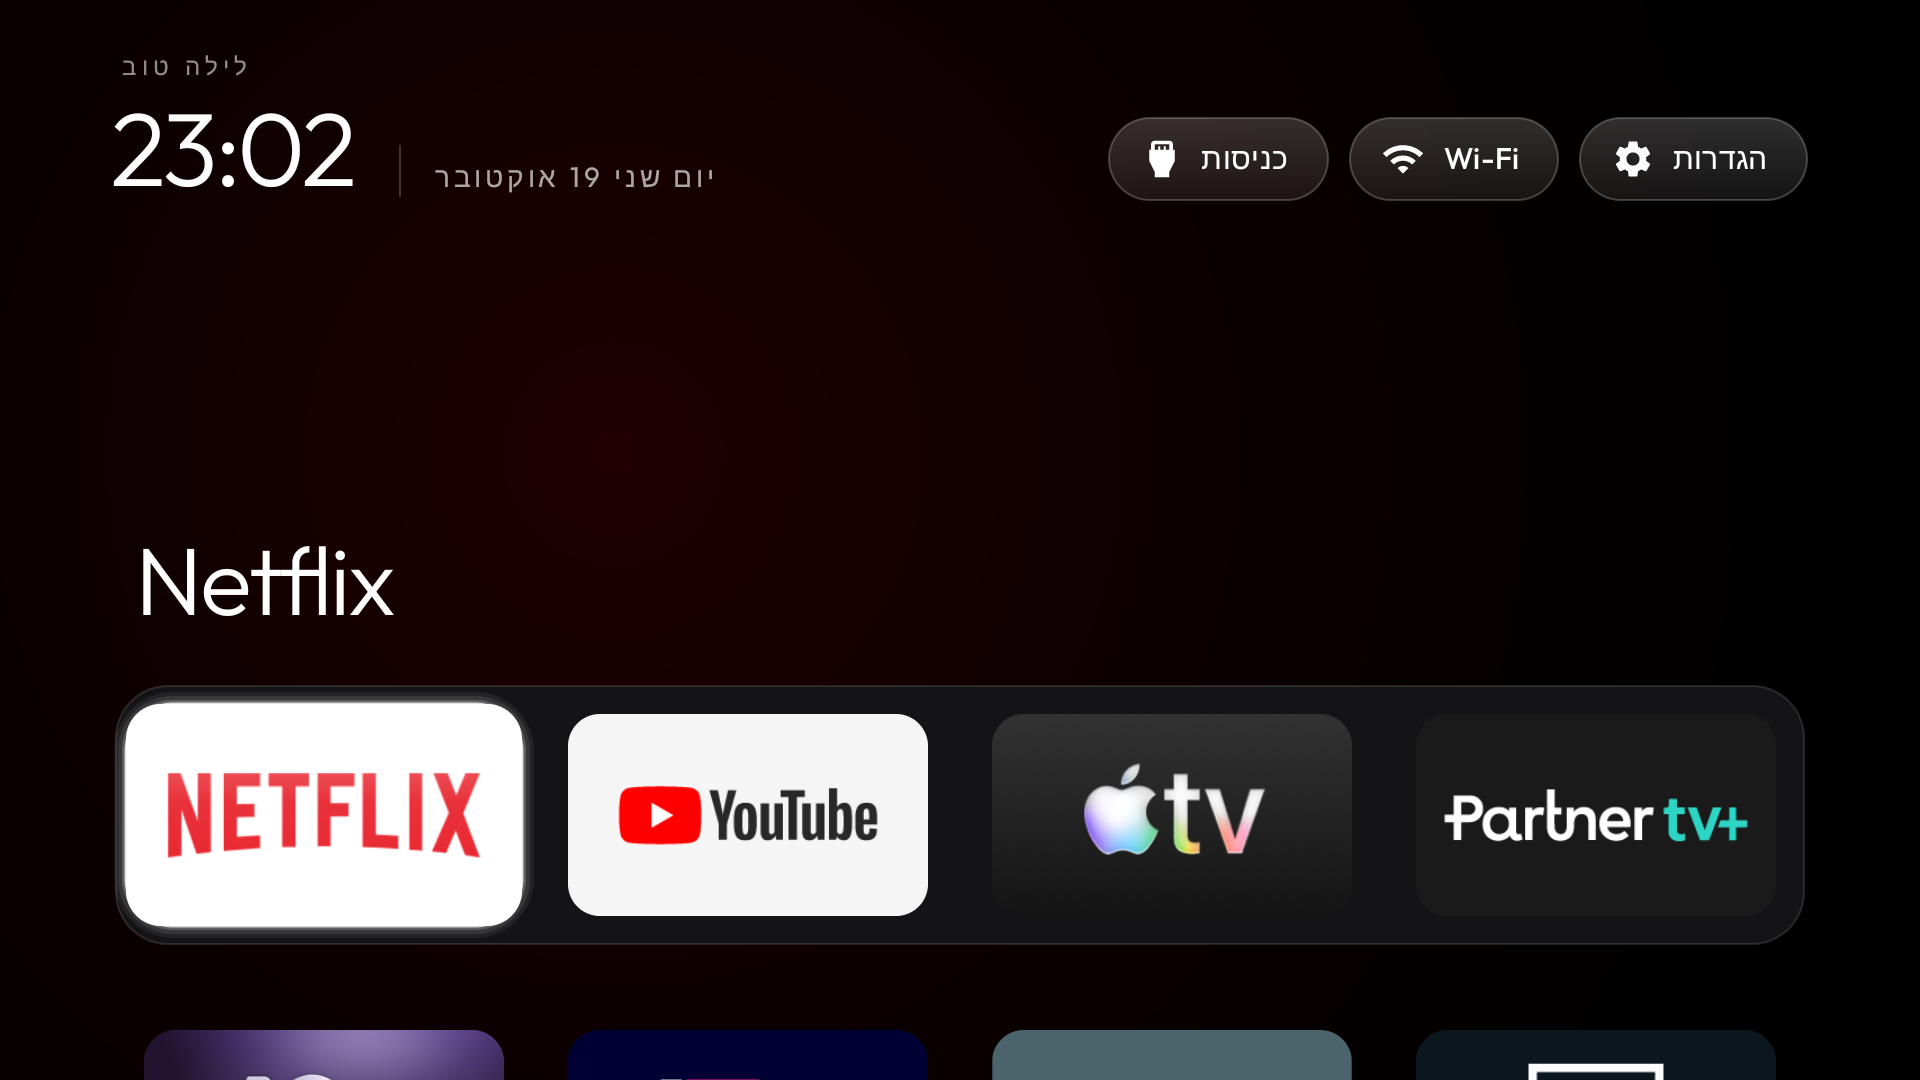
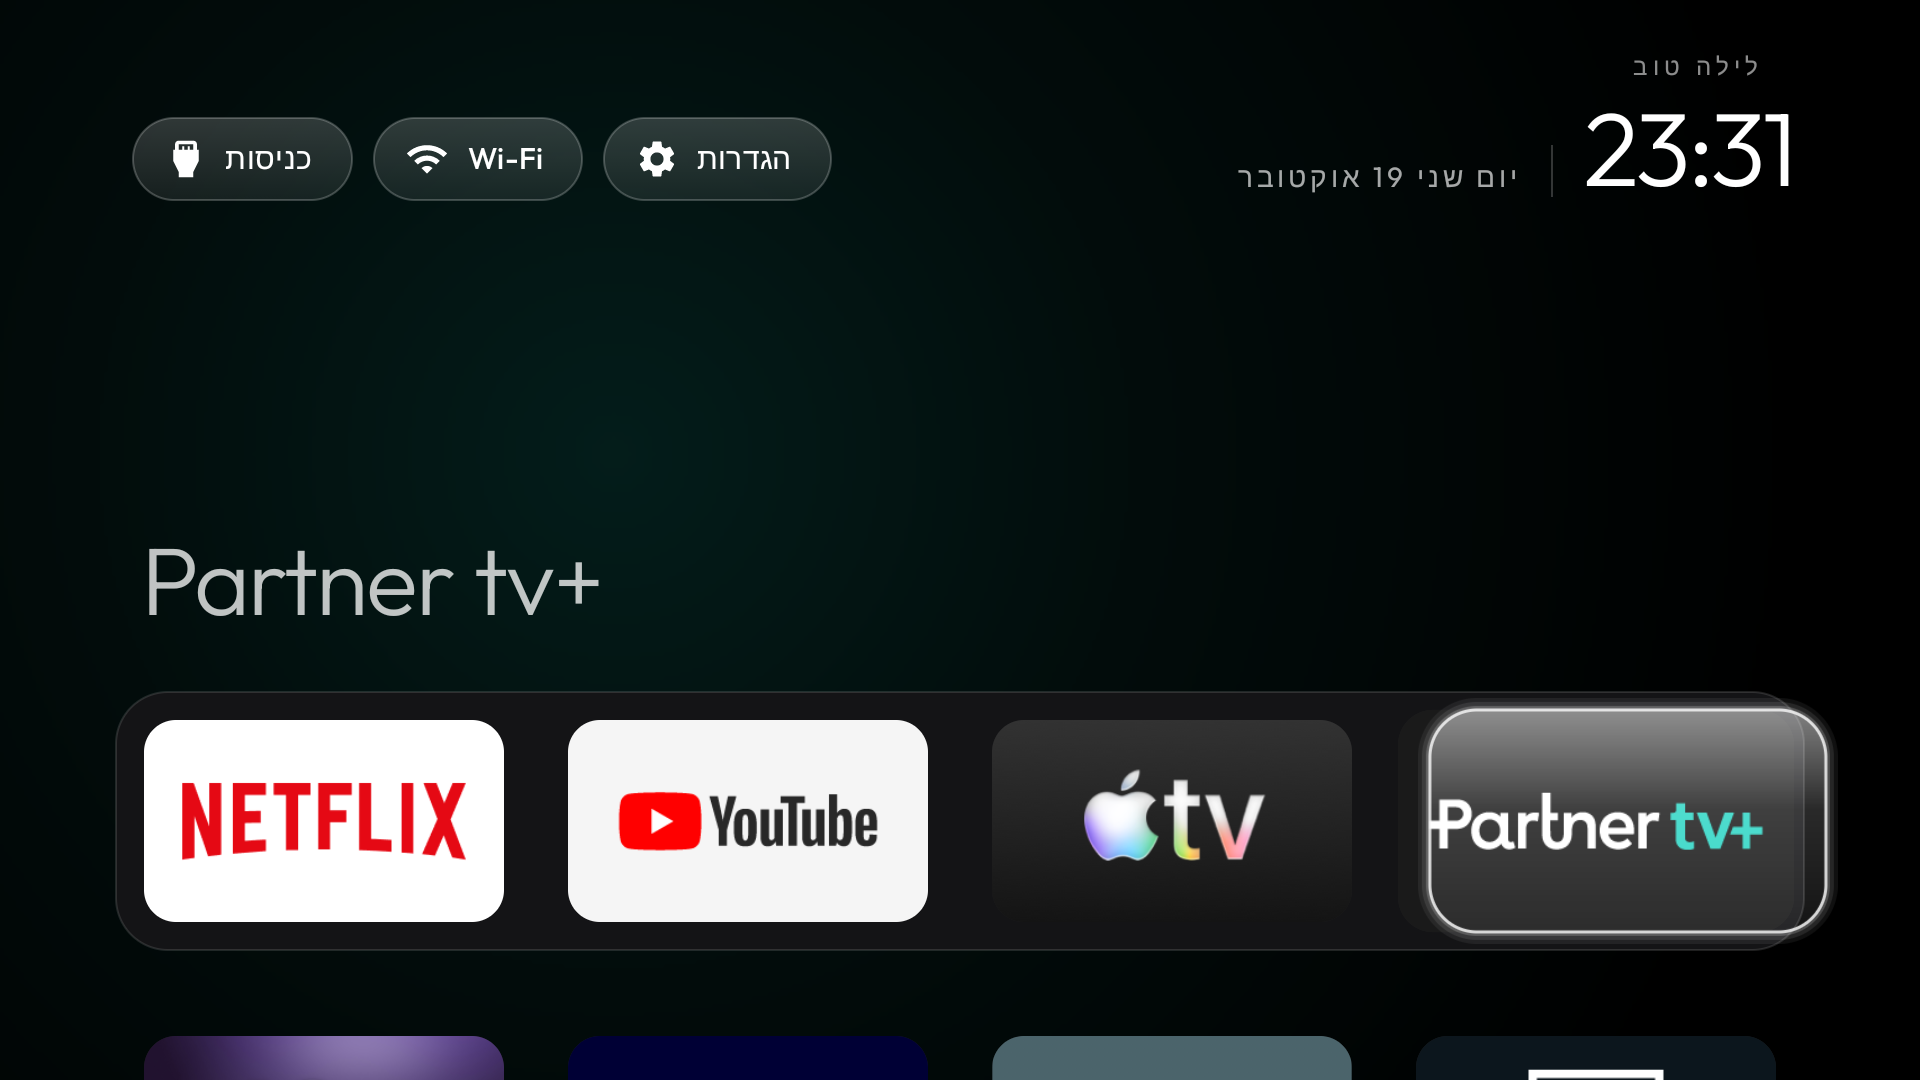
Limit the customized header layout to Hebrew

diff --git a/README.md b/README.md
@@ -212,6 +212,7 @@ the install script finds `~/Android/Sdk` and the `java` on your PATH.
 - **Configure** in [`config.xml`](launcher/app/src/main/res/values/config.xml): dock order, hidden apps, the Live TV package, columns (tiles shrink from 5 up), rows under the dock, an optional VPN app for the network pill, and `reduced_motion` for TVs whose GPU cannot keep up.
 - **Themes** set the same keys plus a background colour and a wallpaper from a `config.json` pushed to the TV, no rebuild. Three ship in [`themes/`](themes/), documented there.
 - **Language** follows the TV: English, German, Spanish, Catalan, French, Russian, Serbian (Latin), Polish, Arabic, Hebrew, Simplified Chinese, Thai, Turkish. Android 13+ can set it for the launcher alone: `tools/tv.py 'cmd locale set-app-locales com.gathin.tvhome --locales he'`.
+  Hebrew places the menu buttons on the left and the date and clock on the right, with the greeting above the clock; other languages keep the original header.
   Russian includes the module-card approval and management screens and the VPN-off badge.
 - **Module cards** let any TV app declare its own tile (label, caption, glow). The launcher asks you once per app, Keep hidden by default, and remembers the answer for that app's signing key and card name. Hold OK on Settings to change your mind. How to make one: [`docs/modules.md`](docs/modules.md); the contract: [`docs/specs/card.md`](docs/specs/card.md).
 - **Clock screensaver**: a drifting clock over the glow, so nothing burns in. Pick "Clock" in the TV's screensaver settings, or over ADB:
